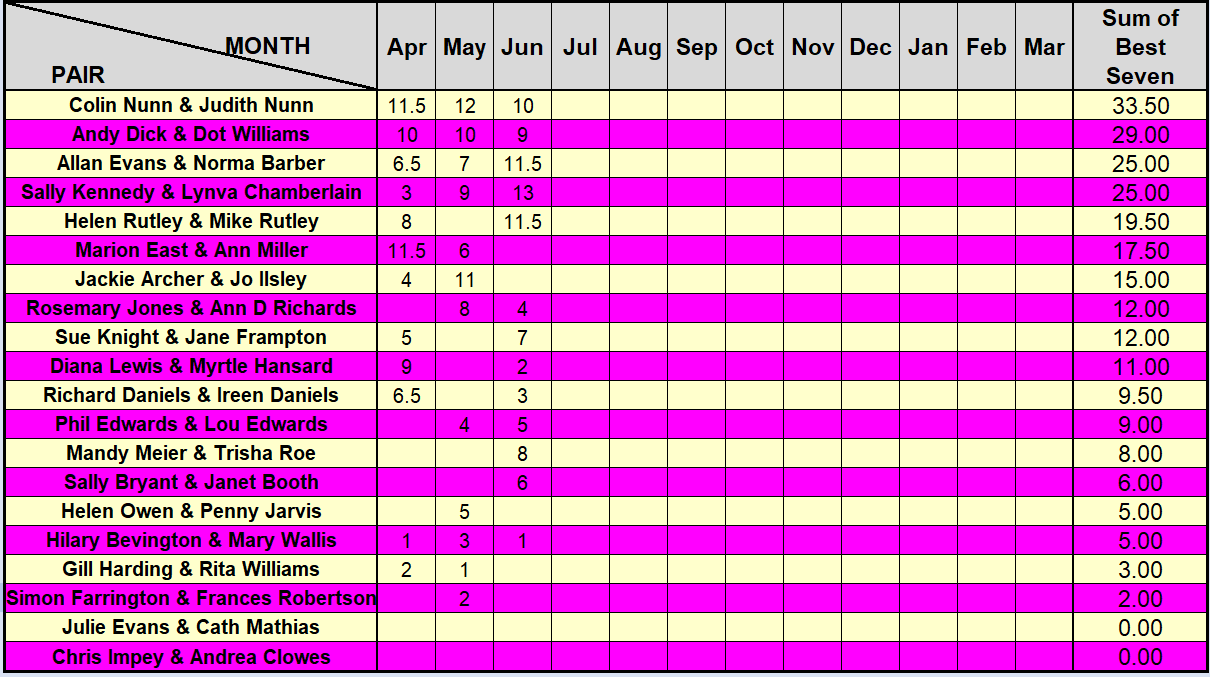
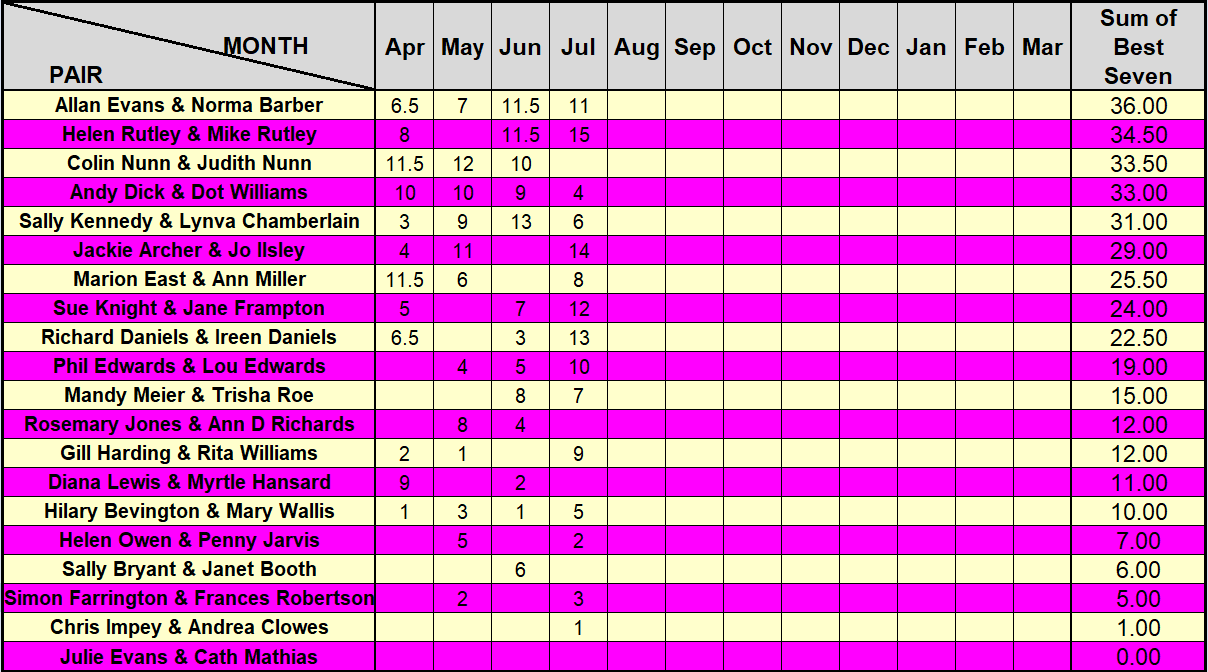
add RB

diff --git a/robertbrown.html b/robertbrown.html
@@ -9,7 +9,7 @@
 </head>
 <body>
 
-  <h2 id="rb1">ROBERT BROWN STANDINGS 2025 - 2026 ()</h2>
+  <h2 id="rb1">ROBERT BROWN STANDINGS 2025 - 2026 (JUL)</h2>
   <div id="content1"><img class="rb"src="Picture2.png"alt="RB"></div>
 
   <h2>Instructions</h2>
